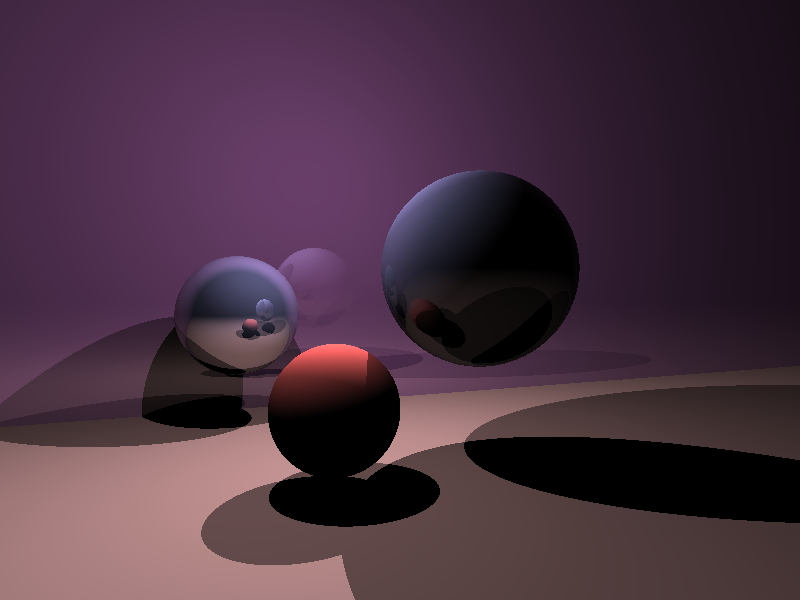
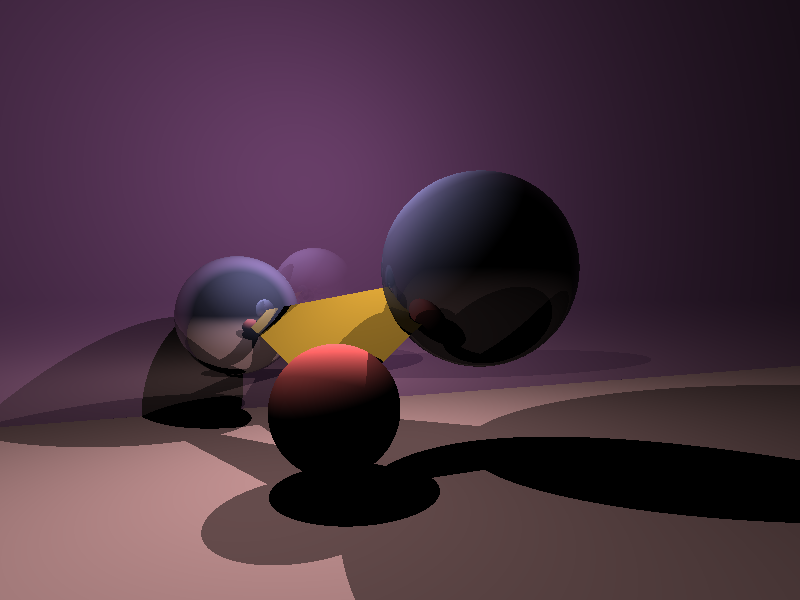
Triangle primitive added.

diff --git a/Raytracer/Program.cs b/Raytracer/Program.cs
@@ -69,12 +69,26 @@ namespace Raytracer
                              //new Sphere(new Vector(200, -75, 400), 200, new Material(new Vector(1.0f, 0.0f, 0), 0.5f, 1.0f)),
                              
                              //bikker v3 scene
-                             new Plane(new Vector(0, 1, 0), 4.4f, new Material(new Vector(0.4f, 0.3f, 0.3f), 1.0f, 0.0f)), //ground
-                             new Plane(new Vector(0.4f, 0, -1), 12, new Material(new Vector(0.5f, 0.3f, 0.5f), 0.6f, 0.3f)), //back
-                             new Sphere(new Vector(2, 0.8f, 3), 2.5f, new Material(new Vector(0.7f, 0.7f, 1.0f), 0.6f, 0.2f)), //big sphere
-                             new Sphere(new Vector(-5.5f, -0.5f, 7), 2, new Material(new Vector(0.7f, 0.7f, 1.0f), 0.7f, 0.6f)), //small sphere
-                             new Sphere(new Vector(-1.5f, -2.5f, 1.5f   ), 1.5f, new Material(new Vector(1.0f, 0.4f, 0.4f), 0.7f, 0.0f)), //extra sphere
                              
+                             new Plane(new Vector(0, 1, 0), 4.4f,
+                                       new Material(new Vector(0.4f, 0.3f, 0.3f), 1.0f, 0.0f)), //ground
+                             new Plane(new Vector(0.4f, 0, -1), 12,
+                                       new Material(new Vector(0.5f, 0.3f, 0.5f), 0.6f, 0.3f)), //back
+                             new Sphere(new Vector(2, 0.8f, 3), 2.5f,
+                                        new Material(new Vector(0.7f, 0.7f, 1.0f), 0.6f, 0.2f)), //big sphere
+                             new Sphere(new Vector(-5.5f, -0.5f, 7), 2,
+                                        new Material(new Vector(0.7f, 0.7f, 1.0f), 0.7f, 0.6f)), //small sphere
+                             new Sphere(new Vector(-1.5f, -2.5f, 1.5f), 1.5f,
+                                        new Material(new Vector(1.0f, 0.4f, 0.4f), 0.7f, 0.0f)), //extra sphere
+                             
+                             new Triangle(new Vector(2, 0.8f, 3), new Vector(-1.5f, -2.5f, 1.5f), new Vector(-5.5f, -0.5f, 7),
+                                          new Material(new Vector(0.8f, 0.6f, 0.2f), 0.7f, 0.0f)),
+                             
+                             /*new Sphere(new Vector(0, 2, -2), 0.5f, new Material(new Vector(1, 0, 0), 1, 0)),
+                             new Sphere(new Vector(3, -2, -2), 0.5f, new Material(new Vector(0, 1, 0), 1, 0)),
+                             new Sphere(new Vector(-3, -2, -2), 0.5f, new Material(new Vector(0, 0, 1), 1, 0)),
+                             new Triangle(new Vector(-3, -2, -2),new Vector(3, -2, -2),new Vector(0, 2, -2),new Material(new Vector(1, 1, 0), 1, 0))
+                             */
                              //new Sphere(new Vector(-5.5f, -0.5f, 7), 2f, new Material(new Vector(0.7f, 0.7f, 1.0f), 0.8f, 0.0f)),
                              //new Sphere(new Vector(2, 0.8f, 3), 2.5f, new Material(new Vector(0.7f, 0.7f, 1.0f), 0.8f, 0.0f)),
                              //new Sphere(new Vector(0, 5, 5), 1.5f, new Material(new Vector(1, 1, 1), 1.0f, 0.0f)),

diff --git a/Raytracer/Primitives/Triangle.cs b/Raytracer/Primitives/Triangle.cs
@@ -1,0 +1,78 @@
+using System;
+using System.Collections.Generic;
+using System.Linq;
+using System.Text;
+
+using Raytracer.Math;
+
+namespace Raytracer.Primitives
+{
+    internal class Triangle : Primitive
+    {
+        private Vector A;
+        private Vector B;
+        private Vector C;
+        private Vector normal;
+
+        public Triangle(Vector a, Vector b, Vector c, Material material)
+        {
+            A = a;
+            B = b;
+            C = c;
+            Material = material;
+
+            normal = Vector.Cross(B - A, C - A).Normalize();
+
+        }
+
+        public override bool Intersects(Ray r, out float t)
+        {
+            Vector u = B - A;
+            Vector v = C - A;
+
+            float a = -normal.Dot(r.Origin - A);
+            float b = normal.Dot(r.Direction);
+
+            if (System.Math.Abs(b) < 0.0000001f)
+            {
+                // TODO: move to begining or use ref
+                t = float.PositiveInfinity;
+                return false;
+            }
+
+            t = a/b;
+
+            if (t < 0)
+                return false;
+
+            Vector ip = r.Origin + r.Direction*t;
+
+            float uu = u.Dot(u);
+            float uv = u.Dot(v);
+            float vv = v.Dot(v);
+
+            Vector w = ip - A;
+            float wu = w.Dot(u);
+            float wv = w.Dot(v);
+
+            float D = uv*uv - uu*vv;
+
+            float pr = (uv*wv - vv*wu)/D;
+            float ps = (uv*wu - uu*wv)/D;
+
+            if (pr < 0 || pr > 1 || ps < 0 || pr+ps > 1)
+            {
+                t = float.PositiveInfinity;
+                return false;
+            }
+
+            return true;
+        }
+
+        public override Vector Normal(Vector p)
+        {
+            return normal;
+        }
+    }
+}
+    

diff --git a/Raytracer/Math/Vector.cs b/Raytracer/Math/Vector.cs
@@ -26,10 +26,16 @@ namespace Raytracer.Math
             float invlen = 1.0f/Length();
             return new Vector(X*invlen, Y*invlen, Z*invlen);
         }
-
+        
+        //TODO: static versions
         public float Dot (Vector v)
         {
             return X*v.X + Y*v.Y + Z*v.Z;
+        }
+
+        public static Vector Cross (Vector a, Vector b)
+        {
+            return new Vector(a.Y*b.Z - a.Z*b.Y, a.Z*b.X - a.X*b.Z, a.X*b.Y - a.Y*b.X);
         }
 
         public static Vector operator+ (Vector a, Vector b)

diff --git a/Raytracer/Primitives/Primitive.cs b/Raytracer/Primitives/Primitive.cs
@@ -9,6 +9,8 @@ namespace Raytracer.Primitives
 {
     abstract class Primitive
     {
+        //TODO: base constructor for debug name and material
+        //TODO: debug name
         public Material Material;
 
         public abstract bool Intersects(Ray r, out float t);
